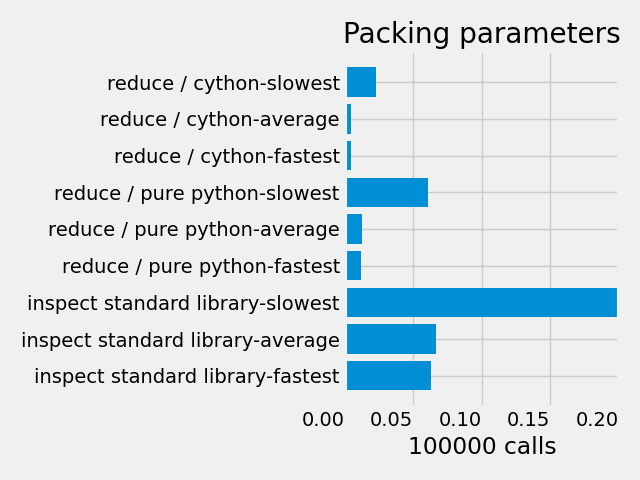
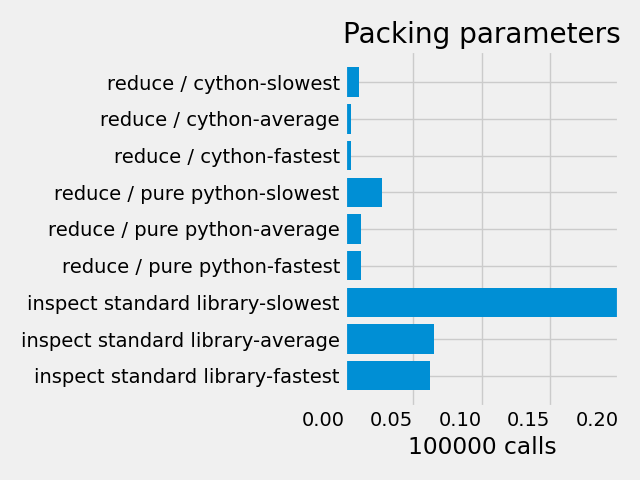
Merge pull request #1 from Vizonex/segfault-fix
Use C To Call reduce's __wrapped__ function in Cython

Changed region(s): [[0.5938, 0.3438, 0.6875, 0.4375], [0.5625, 0.125, 0.5938, 0.2188]]

diff --git a/src/reductable_params/reduce_packer.h b/src/reductable_params/reduce_packer.h
@@ -1,0 +1,61 @@
+#ifndef __REDUCE_PACKER_H__
+#define __REDUCE_PACKER_H__
+
+#include <Python.h>
+
+#ifdef __cplusplus
+extern "C" {
+#endif
+
+/* This was more or less an optimization & Not wanting cython 
+to screw around or trigger segfaults with in the most critical sections 
+The entire reduce module could be moved to C if problems persist.
+*/
+
+static PyObject* reduce_call(
+    PyObject* kwds, 
+    PyObject* r_wrapped,
+    PyObject* r_defaults, 
+    PyObject* r_required,
+    PyObject* r_params,
+    const Py_ssize_t n_required,
+    const Py_ssize_t n_params
+){
+    PyObject* key, *v, *result;
+    result = NULL;
+    PyObject* kwargs = PyDict_Copy(r_defaults);
+    if (kwargs == NULL) goto cleanup;
+    PyObject* args = PyTuple_New(n_required);
+    if (args == NULL) goto cleanup;
+ 
+    for (Py_ssize_t i = 0; i < n_required; i++){
+        key = PyTuple_GET_ITEM(r_required, i);
+        v = PyDict_GetItemWithError(kwds, key);
+        if (v == NULL)
+            goto cleanup;
+        PyTuple_SET_ITEM(args, i, v);
+    }
+
+    for (Py_ssize_t j = n_required; j < n_params; j++){
+        key = PyTuple_GET_ITEM(r_params, j);
+        v = PyDict_GetItem(kwds, key);
+        if (v != NULL)
+            PyDict_SetItem(kwargs, key, v);
+    }
+
+    result = PyObject_Call(r_wrapped, args, kwargs);
+cleanup:
+    Py_CLEAR(kwargs);
+    Py_CLEAR(args);
+    return result;
+}
+
+
+
+
+#ifdef __cplusplus
+}
+#endif 
+
+
+#endif // __REDUCE_PACKER_H__

diff --git a/src/reductable_params/_reduce_py.py b/src/reductable_params/_reduce_py.py
@@ -109,7 +109,7 @@ class reduce(Generic[P, T]):
         kwargs = self._defaults.copy()
         args = [kwds[key] for key in self._required]
 
-        for k in self._params[self._nargs :]:
+        for k in self._params[self._nargs:]:
             if k in kwargs:
                 kwargs[k] = kwds[k]
 
